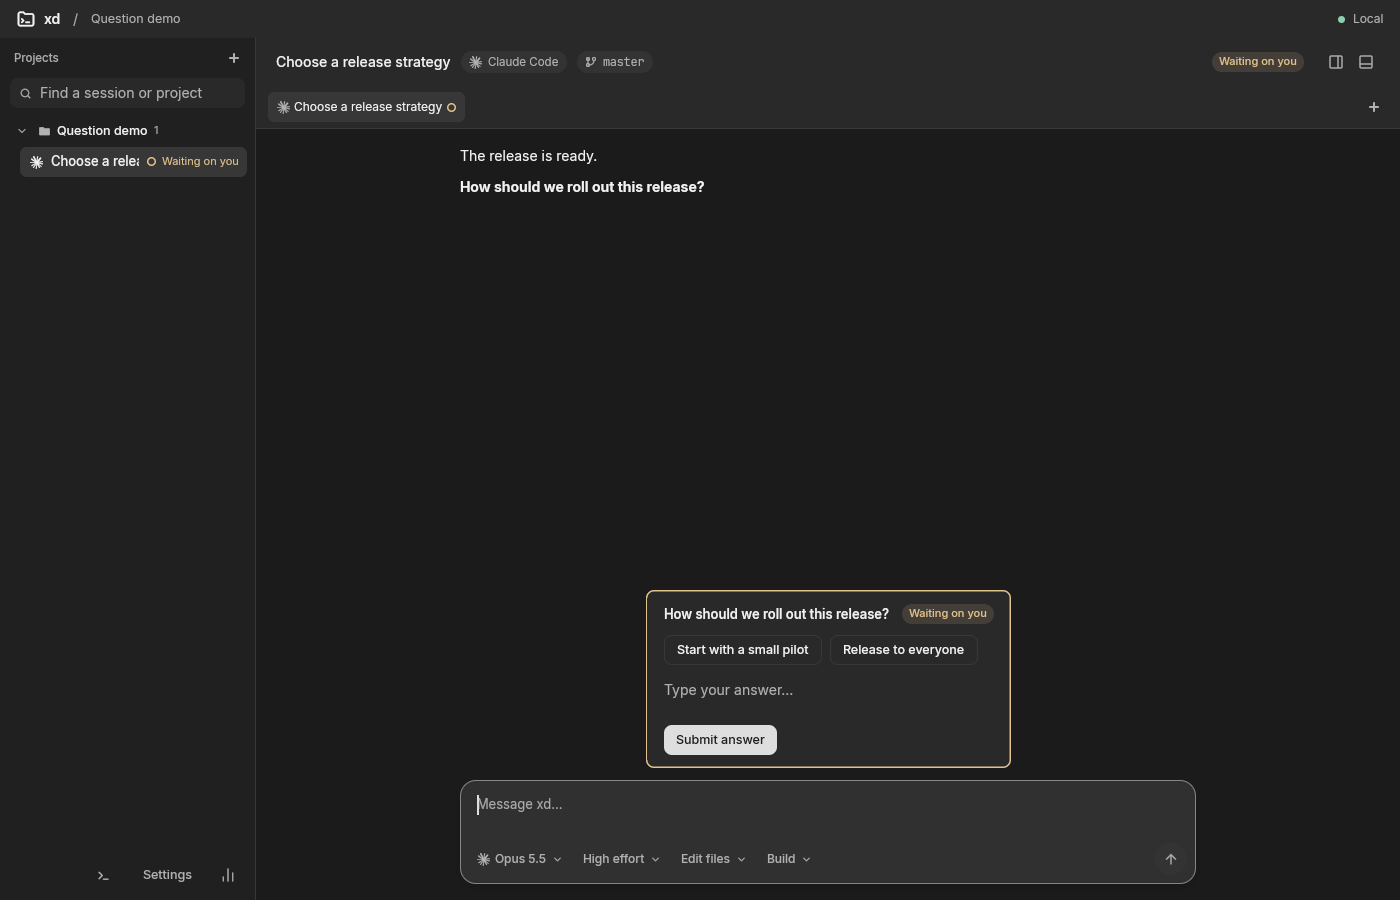
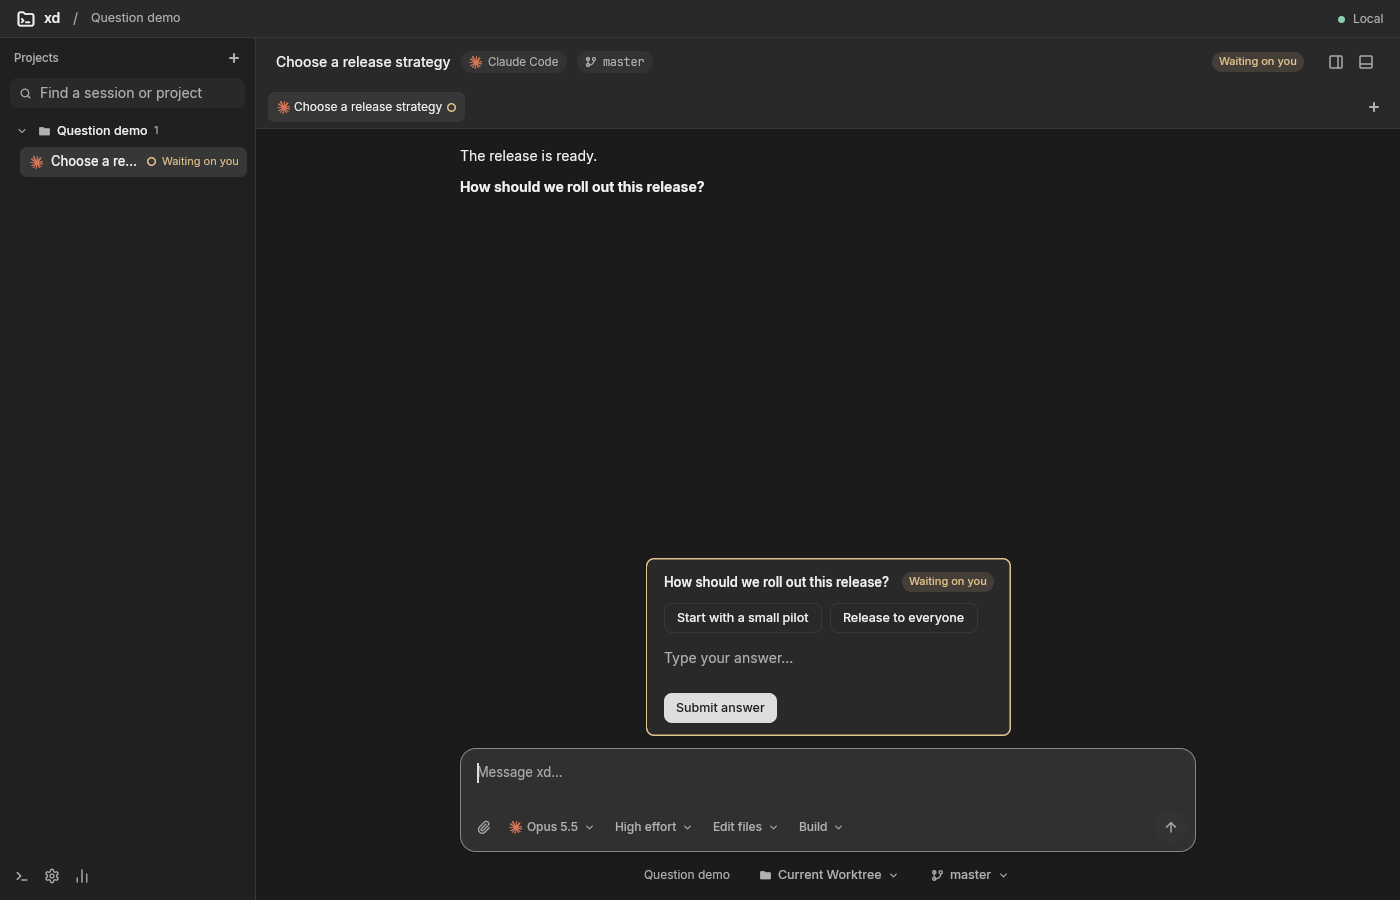
docs: refresh question screenshots after rebase

diff --git a/docs/assets/agent-questions/README.md b/docs/assets/agent-questions/README.md
@@ -2,8 +2,8 @@
 
 Actual GPUI application captures using Xvfb and lavapipe, 1400 × 900,
 Dark theme, a synthetic completed reply containing a choice and free-text question.
-The before binary was built before UI edits from base 30dc0d78; the after binary
-includes this change. Both use the same isolated fixture and viewport.
+The refreshed before binary is built from base f4a13ee1; the after binary
+is built from rebased code head 775ed0c2. Both use the same isolated fixture and viewport.
 
 - `before-dark.png`: the question card exists, but navigation looks idle.
 - `after-dark.png`: session, header and chat tab flag the unanswered question.
